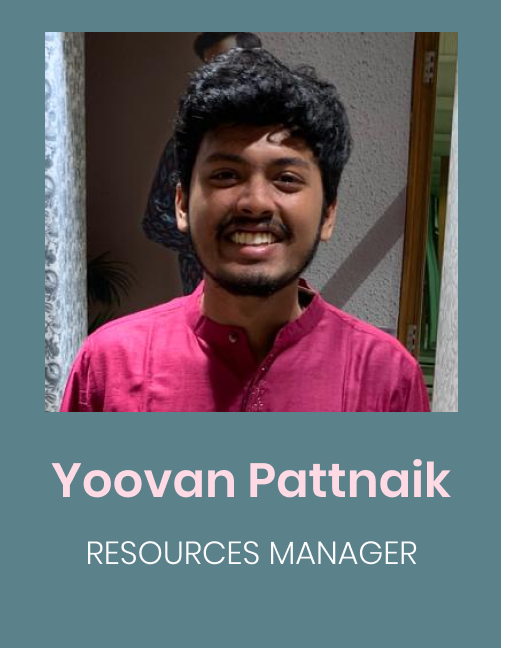
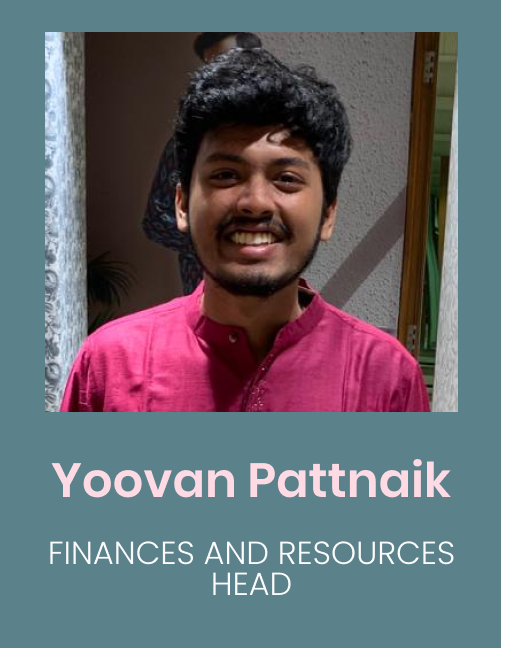
Changes made to team members and designations

Changed region(s): [[0.093, 0.8145, 0.8992, 0.905]]

diff --git a/src/sections/OurTeam.jsx b/src/sections/OurTeam.jsx
@@ -10,8 +10,6 @@ import member2 from "../assets/member2.png";
 import member3 from "../assets/member3.png";
 import member4 from "../assets/member4.png";
 import member5 from "../assets/member5.png";
-import member6 from "../assets/member6.png";
-import member7 from "../assets/member7.png";
 
 const OurTeam = () => {
   return (
@@ -31,8 +29,7 @@ const OurTeam = () => {
         <img src={member3} alt="Member 3" className="team-member" />
         <img src={member4} alt="Member 4" className="team-member" />
         <img src={member5} alt="Member 5" className="team-member" />
-        <img src={member6} alt="Member 6" className="team-member" />
-        <img src={member7} alt="Member 7" className="team-member" />
+        
       </div>
       </div>
       <img src={bottomTriangle} alt="Bottom Triangle" className="bottom-triangle"/>
